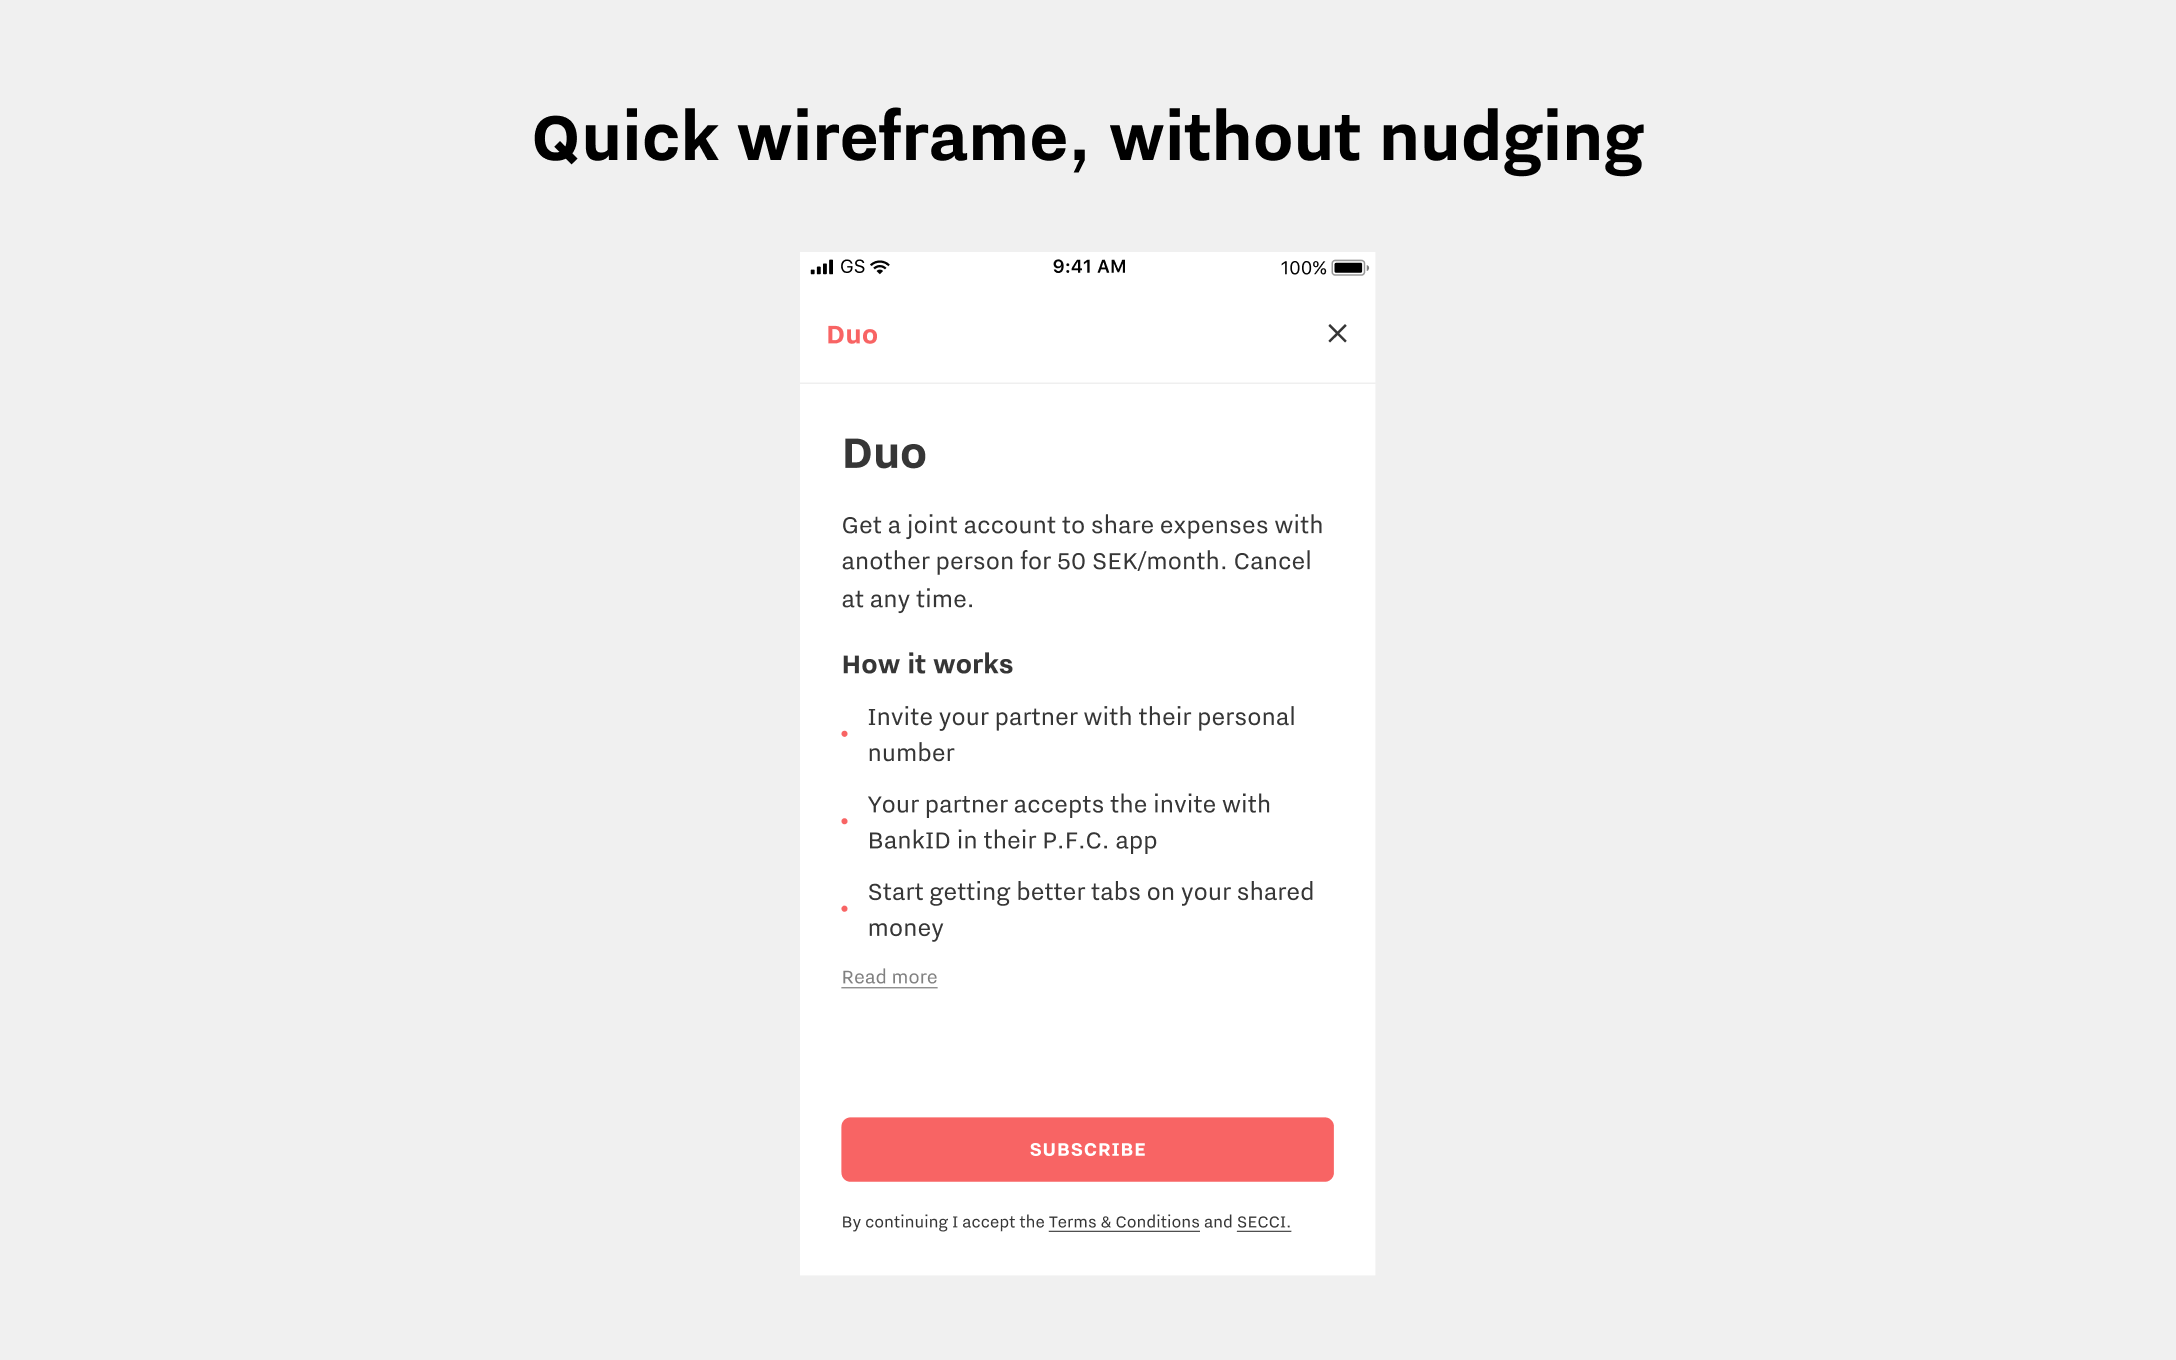
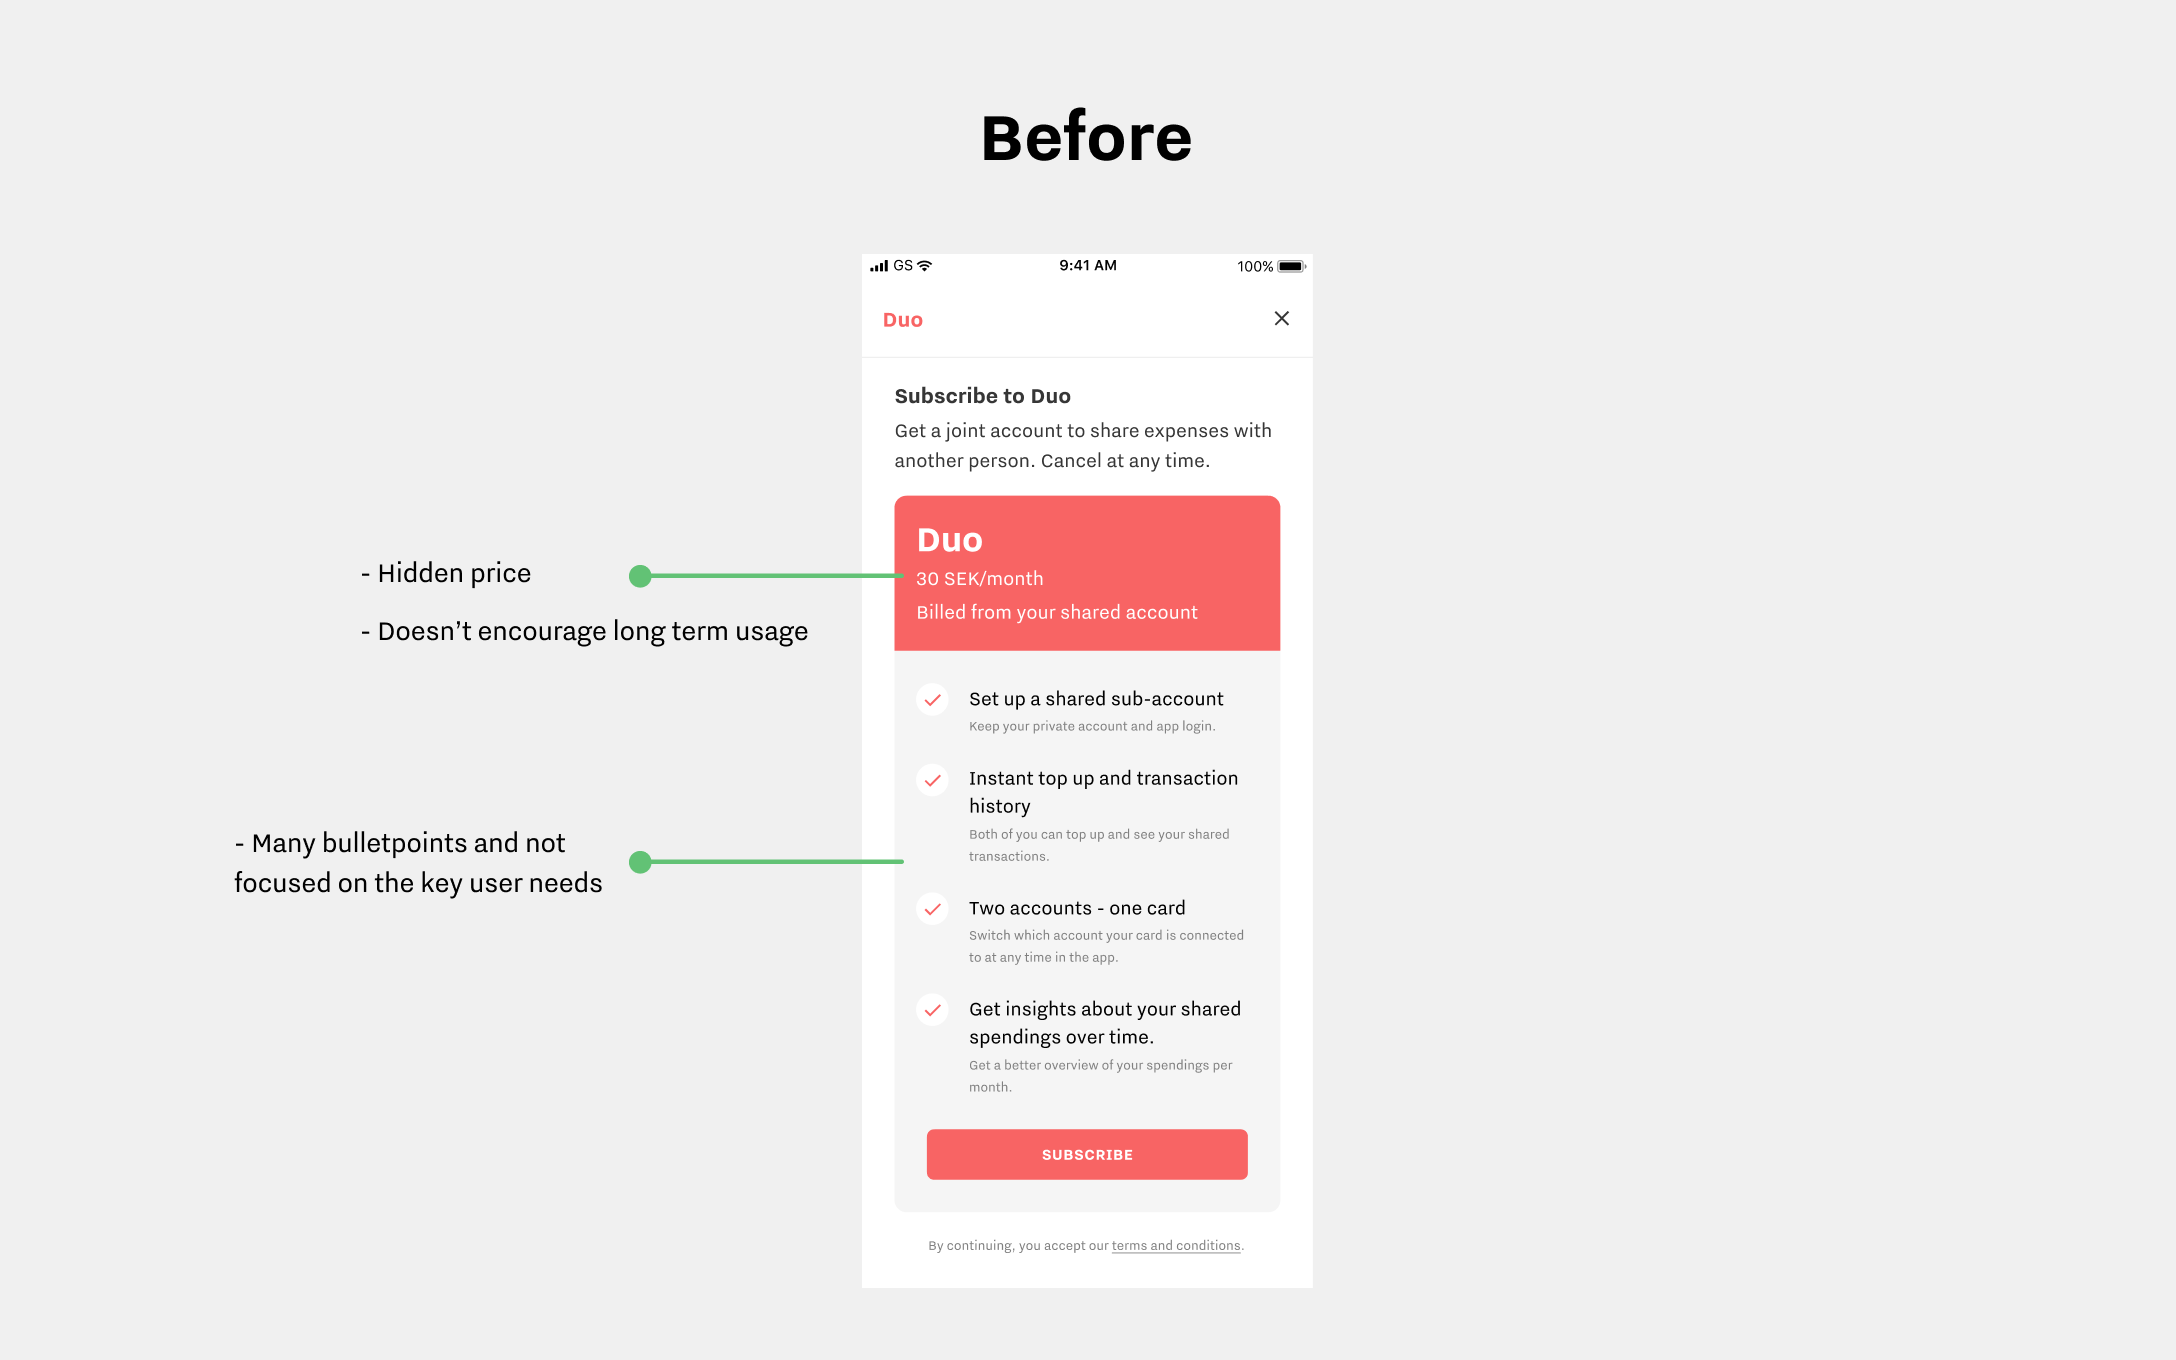
Update nudge for success article

diff --git a/src/pages/articles/NudgingSuccess.js b/src/pages/articles/NudgingSuccess.js
@@ -19,6 +19,7 @@ const NudgingSuccess = ({ match }) => (
       <StyledSummaryPane>
         <StyledH1>Nudging for success</StyledH1>
         <StyledParagraph>Nudging gently guides individuals toward better choices, fostering positive change through subtle, well-planned interventions. In this project, I used nudging to increase the conversion rate to the yearly subscription plan for a joint account feature in the P.F.C. fintech app.</StyledParagraph>
+        <StyledParagraph>5 weeks during 2021</StyledParagraph>
       </StyledSummaryPane>
       <StyledSummaryPane>
         <img src={hero} />
@@ -26,13 +27,16 @@ const NudgingSuccess = ({ match }) => (
     </StyledSummary>
     <StyledPost>
       <StyledParagraph>Behavioural science is the study of how humans make choices and decisions. It delves into the workings of our minds, emotions, and motivations.</StyledParagraph>
-      <StyledParagraph>Nudging is a gentle and effective tool within this field, where positive changes are encouraged through subtle, well-thought-out interventions. It's like a friendly hand on your back, guiding you towards better decisions without taking away your freedom of choice. It's about creating environments and options that make it easier for individuals to make choices aligned with their own goals, leading to improved outcomes and well-being.</StyledParagraph>
+      <StyledParagraph>Nudging is a gentle and effective tool within this field, where positive changes are encouraged through subtle, well-thought-out interventions. It's about creating environments and options that make it easier for individuals to make choices aligned with their own goals, leading to improved outcomes and well-being.</StyledParagraph>
+
       <StyledH2>Using nudging to increase selection of the yearly subscription plan</StyledH2>
+      <StyledParagraph>When designing new features or improving existing flows, my team and I explore how we can use nudging to guide the user to better choices for them, and also for the business.</StyledParagraph>
+      <StyledParagraph>Duo, our subscription-based feature, is designed to simplify the way couples manage their shared finances. However, there was room for improvement. The subscription interface offered only a single monthly plan, which didn't cater to long-term customers. Additionally, the pricing information was somewhat concealed among numerous bullet points. Our objective was to enhance the user experience and encourage more long-term customer engagement through a thoughtful redesign of the subscription page interface.</StyledParagraph>
       <img src={quickWireframe} />
       <img src={improvedWireframe} />
       <StyledParagraph>Limited choice: With four distinct subscription plans, we've struck a balance, providing diversity without overwhelming our users with too many options. By restricting the options, the decision-making process becomes easier. It's not about a lack of options; it's about streamlining the path to a choice that feels just right.</StyledParagraph>
       <StyledParagraph>Default effect: To enhance the decision-making process even more, we've thoughtfully pre-selected the 12-month subscription plan. This not only simplifies user choices but also benefits the company by fostering longer customer relationships. It's not about a lack of control; it's about making the experience as effortless as possible. The user is still in the driver's seat and can explore other options if they wish.</StyledParagraph>
-      <StyledParagraph>Scarcity: In this situation, the “Limited offer”-badge serves as a time-sensitive revelation, recognising that these subscription plans are genuinely unique and available only for a short window. </StyledParagraph>
+      <StyledParagraph>Scarcity: In this situation, the “Limited offer”-badge serves as a time-sensitive revelation, recognising that these subscription plans are genuinely unique and available only for a short window.</StyledParagraph>
       <StyledParagraph>Loss aversion: Through this approach, we're not just highlighting discounts; we're highlighting the missed opportunity for significant savings. We've thoughtfully incorporated this psychology to evoke a sense of urgency, ensuring the user makes choices that protect against perceived loss.</StyledParagraph>
       <StyledParagraph>After implementing these tweaks, it became evident that the vast majority of users opted for the 12-month subscription plan, marking a significant success for the company.</StyledParagraph>
     </StyledPost>
